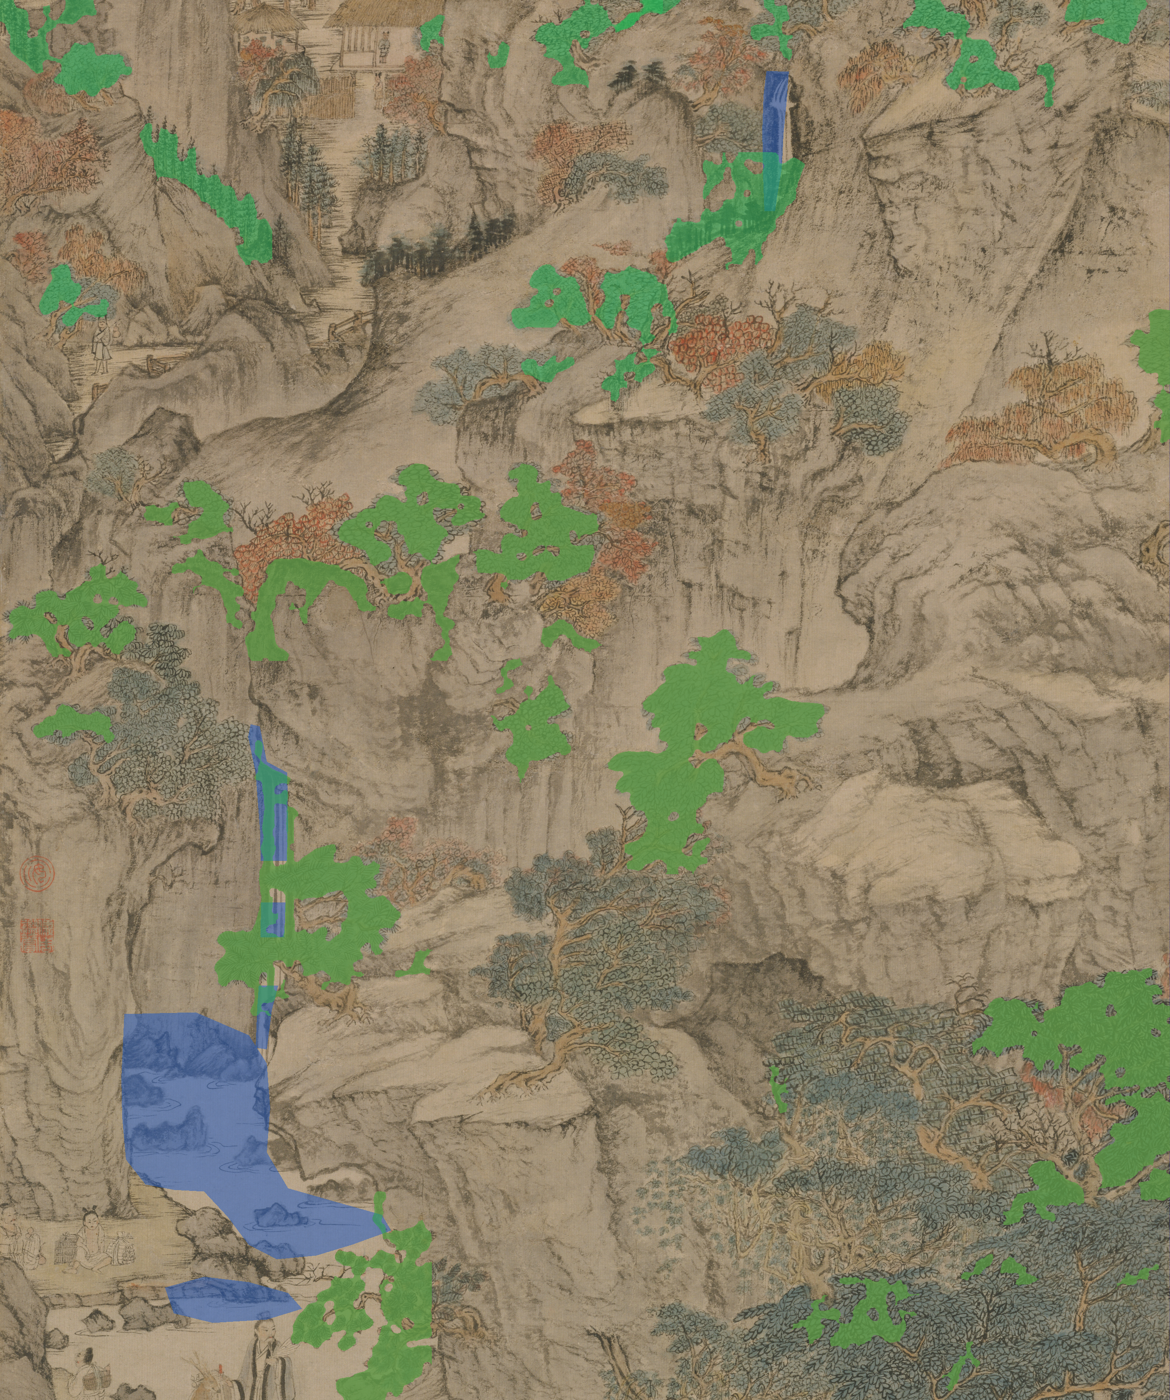
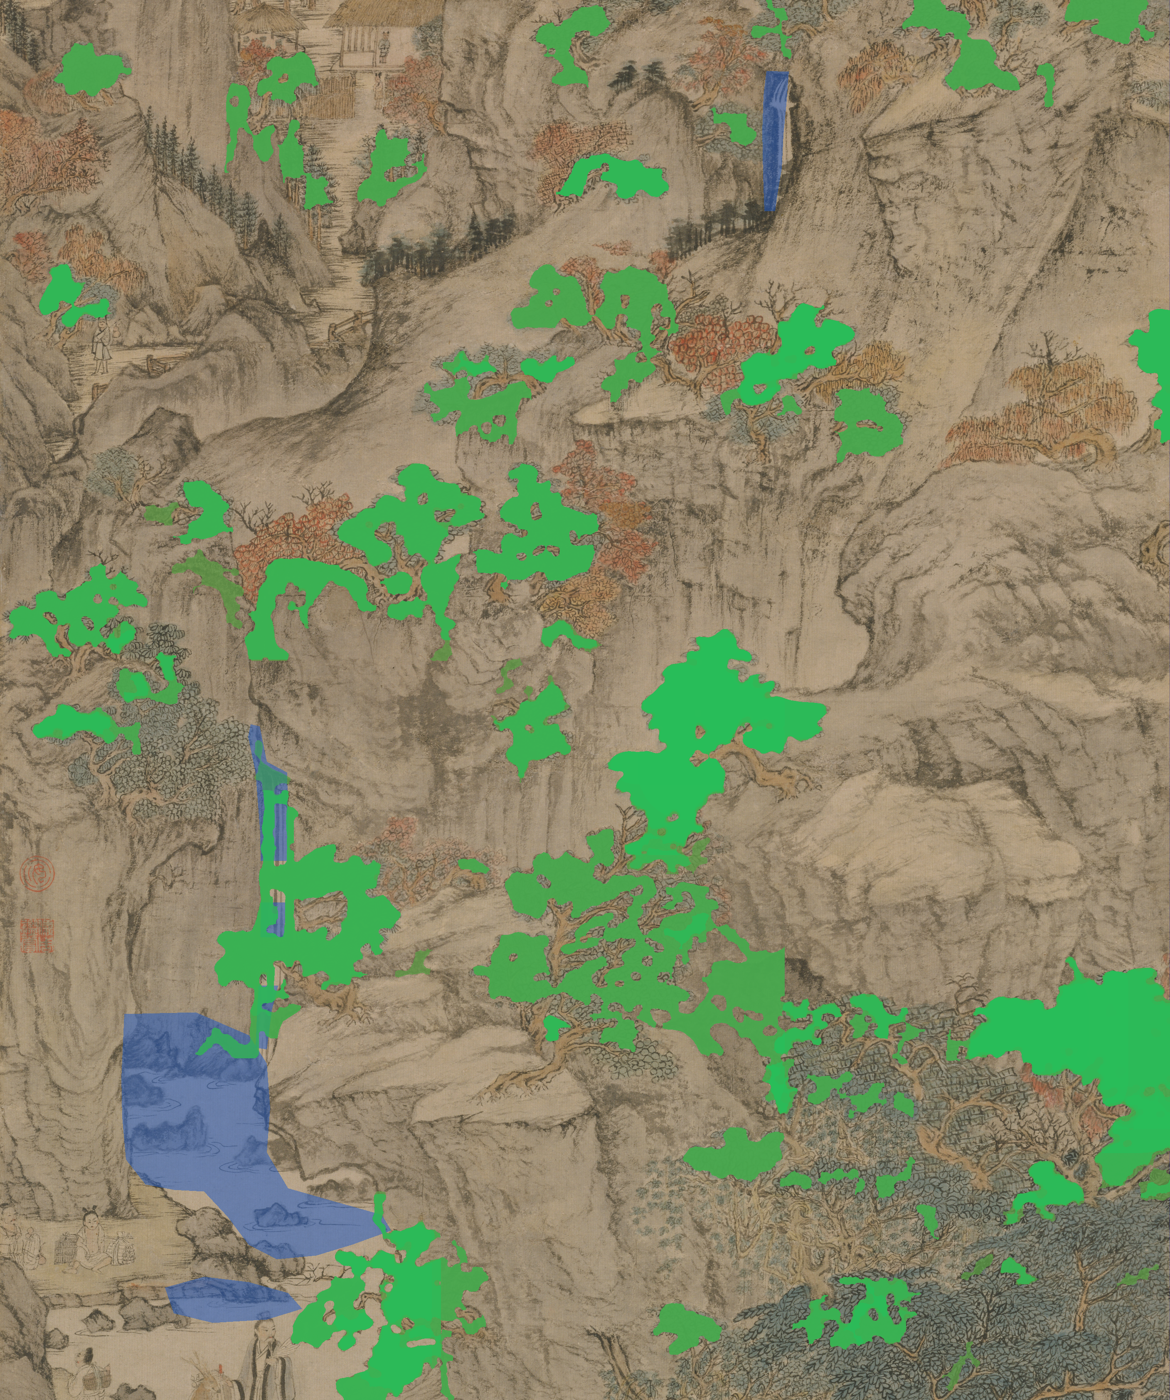
STATE and the z3w mask sheet, mid-rebuild after the duplicate polys came out

diff --git a/jobs/wang-meng/STATE.md b/jobs/wang-meng/STATE.md
@@ -3,7 +3,7 @@
 
 # media-tools — STATE
 
-*Generated 2026-08-24 12:26 from git, the knowledge store, and this project's own status script. Nothing here is typed by hand, so nothing here can be stale.*
+*Generated 2026-08-24 13:03 from git, the knowledge store, and this project's own status script. Nothing here is typed by hand, so nothing here can be stale.*
 
 ## What is open
 
@@ -64,7 +64,6 @@ VERDICTS — measured, and SCOPED; check the scope before reusing
   · a-transform-cannot-change-an-expression Character animation on a painted or drawn source. The MEASUREMENTS are from 葛稚川移居圖's Ge Ho
   · band-02-was-already-animated-once The Ge Hong / deer / trestle-bridge scene, master box roughly [901, 10604, 2585, 13599]. F
   · branch-radius-scales-with-the-tree hinge-foliage's branch/leaf split on 葛稚川移居圖, and by the same mechanism any painting where 
-  · canopy-read-distant    DISTANT ridges only -- the summits, master y < ~3850, verified on z6w. NOT valid near; the
   · canopy-read-near       NEAR foliage only -- the compound canopies and the gorge, master y > ~3850. NOT valid on d
   · clean-plate-donor-scope Any clean-plate fill whose hole is SURROUNDED BY MATERIAL OF THE SAME KIND as the thing be
   · depth-is-authored      Whole-painting depth on 葛稚川移居圖 and, by the same mechanism, any painting built on 散点透視 rath
@@ -82,6 +81,7 @@ VERDICTS — measured, and SCOPED; check the scope before reusing
   · the-resolve-substrate-is-already-built Facts read off this machine on 2026-08-22. Applies to any plan that proposes building agen
 
 REFUTED — already tried, do NOT retry
+  ✗ a-percentile-cannot-reject-a-region A percentile is defined relative to its own input, so it ALWAYS returns something -- give it a blank
   ✗ canopy-by-texture-statistics At distance Wang Meng's 牛毛皴 (hemp-fibre texture strokes) covers rock and forest alike, so the ridge 
   ✗ copied-real-ink-over-inks-worse-than-flux Patch synthesis chooses donors by TEXTURE MATCH, and a hole beside dense hatching matches dense hatc
   ✗ mist-as-ink            There is no mist ink in this painting. What reads as mist is 留白 -- bare ground, negative space, the 
@@ -143,23 +143,23 @@ RELIEF — within-plane surface shape, per zone (the 2026-08-19 verdict)
 *From git. The full narrative lives in `docs/journal/`; commit subjects are written as search bait, so `git log --grep` is the index.*
 
 ```
+2026-08-24  7ea283f  two guards that were written down and never enforced: the fence and the dedup
+2026-08-24  9210f58  the summit band is catalogued: 12 tiles, 225 objects, 123 leaf masses
+2026-08-24  abea32c  retire dark-accent: the polygon was the classifier, not the rule
+2026-08-24  3aabc70  what the catalogue thinks is foliage, over the whole scroll
+2026-08-24  9c02933  the foliage master was a union nobody could reproduce; now it is a script
+2026-08-24  4ed19e9  the mask index was a cache of a directory with no invalidation: 17 entries, 4 files
+2026-08-24  9a0bd7a  the cut-card manifests are the record; living-work's 69MB of pngs are the cutting floor
+2026-08-24  474094a  the z1 rebuild's outputs: catalogue SAM masks for the z3w band, and the reel they produced
+2026-08-24  afef054  STATE regenerated: z1 living layer 21 to 46 patches, foliage regions 8 to 122
 2026-08-24  080052c  the coverage denominator was the retired colour gate; the catalogue is the decider
 2026-08-24  f7e0d35  z1's living layer rebuilt from the catalogue: 46 patches, foliage 8 to 33
 2026-08-24  f9d42fb  the foliage masks were never actually committed -- a blanket jobs/** ignore ate them
-2026-08-24  3fc36ff  gitignore the derived stacks: 2.7GB of measure-work frames are reproducible
-2026-08-24  c0ed21b  the subtle reel, reframed: fov floors computed, focus-trees replaced
-2026-08-24  2c25f8b  STATE regenerated: colour gate retired, catalogue decides foliage
-2026-08-24  708db94  retire the colour gate: a catalogue decides what is foliage, not a threshold
-2026-08-24  321d230  the catalogue replaces the colour gate: rock leaf-ink 64% to 9.5%
-2026-08-24  557efc8  the bottom of the scroll is catalogued: 170 objects, 58 leaf masses
-2026-08-24  9ccf63f  the loop Ryan ruled on: the rock moves
-2026-08-24  24cb815  two vision models probed for foliage-vs-rock, then set aside for the catalogue
-2026-08-24  38e7fea  whole-plate foliage pass: coverage 6.9% to 56.6%, but the rock moves
 ```
 
 ### ⚠ UNPUSHED
 
-**3 commit(s) ahead of `origin/main`.** Committed is not the same as safe — a commit that has not left this machine has the durability of the disk it is on.
+**12 commit(s) ahead of `origin/main`.** Committed is not the same as safe — a commit that has not left this machine has the durability of the disk it is on.
 
 ```
 git push origin main
@@ -169,36 +169,82 @@ git push origin main
 
 ```
  M jobs/wang-meng/STATE.md
- M jobs/wang-meng/film/SHOT-focus-ge.mp4
- M jobs/wang-meng/film/SHOT-focus-slope.mp4
- M jobs/wang-meng/film/SUBTLE-REEL.mp4
- M jobs/wang-meng/journey/z1/living-masks/index.json
- M jobs/wang-meng/journey/z1/living-work/s-great-trees-lower/drawings/cycle.json
- M jobs/wang-meng/journey/z1/living-work/s-great-trees-upper/drawings/cycle.json
- M jobs/wang-meng/journey/z1/living-work/s-left-pines-z2/drawings/cycle.json
- M jobs/wang-meng/journey/z1/living-work/s-pine-over-bridge/drawings/cycle.json
- M jobs/wang-meng/journey/z1/living/built.json
-?? jobs/wang-meng/catalogue/sam/
-?? jobs/wang-meng/journey/z1/living-work/cat-broadleaf-great-right/
-?? jobs/wang-meng/journey/z1/living-work/cat-canopy-bottom-left/
-?? jobs/wang-meng/journey/z1/living-work/cat-canopy-bough-left-main/
-?? jobs/wang-meng/journey/z1/living-work/cat-canopy-bough-left-tip/
-?? jobs/wang-meng/journey/z1/living-work/cat-canopy-brick-top/
-?? jobs/wang-meng/journey/z1/living-work/cat-fronds-bottom-left/
-?? jobs/wang-meng/journey/z1/living-work/cat-pine-needle-right/
-?? jobs/wang-meng/journey/z1/living-work/cat-pine-top-roots/
-?? jobs/wang-meng/journey/z1/living-work/cat-tree-bottom-right-t013/
-?? jobs/wang-meng/journey/z1/living-work/cat-tree-bottom-right/
-?? jobs/wang-meng/journey/z1/living-work/cat-tree-colour-lower-left/
-?? jobs/wang-meng/journey/z1/living-work/cat-tree-great-centre/
-?? jobs/wang-meng/journey/z1/living-work/cat-tree-round-top-left/
-?? jobs/wang-meng/journey/z1/living-work/cat-tree-teal-mid-left/
-?? jobs/wang-meng/journey/z1/living-work/cat-vine-curtain-left/
-?? jobs/wang-meng/journey/z1/living-work/cat-vine-curtain-mid/
-?? jobs/wang-meng/journey/z1/living-work/s-great-trees-lower/exclude/
-?? jobs/wang-meng/journey/z1/living-work/s-great-trees-upper/exclude/
-?? jobs/wang-meng/journey/z1/living-work/s-left-pines-z2/exclude/
-?? jobs/wang-meng/journey/z1/living-work/s-pine-over-bridge/exclude/
+ M jobs/wang-meng/catalogue/sam-summit/t000-trees.png
+ M jobs/wang-meng/journey/z3w/living-masks/index.json
+ M jobs/wang-meng/journey/z3w/living-work/s-gorge-big-canopy/drawings/cycle.json
+ M jobs/wang-meng/journey/z3w/living-work/s-gorge-foreground/drawings/cycle.json
+ M jobs/wang-meng/journey/z3w/living-work/s-great-trees-upper/drawings/cycle.json
+ M jobs/wang-meng/journey/z3w/living-work/s-left-clifftop-pine/drawings/cycle.json
+ M jobs/wang-meng/journey/z3w/living-work/s-left-pines-z2/drawings/cycle.json
+ M jobs/wang-meng/journey/z3w/living-work/s-pine-over-bridge/drawings/cycle.json
+ M jobs/wang-meng/journey/z3w/living-work/s-right-rust-tree/drawings/cycle.json
+ M jobs/wang-meng/journey/z3w/living/built.json
+ M jobs/wang-meng/living/evidence-masks-z3w.png
+?? jobs/wang-meng/catalogue/foliage-master-summit.png
+?? jobs/wang-meng/catalogue/sam-summit/t001-trees.png
+?? jobs/wang-meng/catalogue/sam-summit/t002-trees.png
+?? jobs/wang-meng/journey/z3w/living-work/cat-broadleaf-great-right/
+?? jobs/wang-meng/journey/z3w/living-work/cat-broadleaf-top-left/
+?? jobs/wang-meng/journey/z3w/living-work/cat-broadleaf-top-right/
+?? jobs/wang-meng/journey/z3w/living-work/cat-canopy-brick-top/
+?? jobs/wang-meng/journey/z3w/living-work/cat-canopy-dense-bottom-right/
+?? jobs/wang-meng/journey/z3w/living-work/cat-canopy-dense-bottom/
+?? jobs/wang-meng/journey/z3w/living-work/cat-canopy-foreground-left/
+?? jobs/wang-meng/journey/z3w/living-work/cat-canopy-foreground/
+?? jobs/wang-meng/journey/z3w/living-work/cat-canopy-top-band/
+?? jobs/wang-meng/journey/z3w/living-work/cat-canopy-top-centre-left/
+?? jobs/wang-meng/journey/z3w/living-work/cat-canopy-top-right/
+?? jobs/wang-meng/journey/z3w/living-work/cat-conifers-right/
+?? jobs/wang-meng/journey/z3w/living-work/cat-fronds-bottom-left/
+?? jobs/wang-meng/journey/z3w/living-work/cat-great-tree-top-left/
+?? jobs/wang-meng/journey/z3w/living-work/cat-grove-bottom-right/
+?? jobs/wang-meng/journey/z3w/living-work/cat-grove-left-upper/
+?? jobs/wang-meng/journey/z3w/living-work/cat-grove-lower-left/
+?? jobs/wang-meng/journey/z3w/living-work/cat-maple-ochre/
+?? jobs/wang-meng/journey/z3w/living-work/cat-maple-orange/
+?? jobs/wang-meng/journey/z3w/living-work/cat-maple-rust-left/
+?? jobs/wang-meng/journey/z3w/living-work/cat-pine-bottom-right/
+?? jobs/wang-meng/journey/z3w/living-work/cat-pine-centre/
+?? jobs/wang-meng/journey/z3w/living-work/cat-pine-dark-right-t015/
+?? jobs/wang-meng/journey/z3w/living-work/cat-pine-dark-right/
+?? jobs/wang-meng/journey/z3w/living-work/cat-pine-dark-top-right/
+?? jobs/wang-meng/journey/z3w/living-work/cat-pine-left-spread/
+?? jobs/wang-meng/journey/z3w/living-work/cat-pine-needle-bottom-right/
+?? jobs/wang-meng/journey/z3w/living-work/cat-pine-needle-left/
+?? jobs/wang-meng/journey/z3w/living-work/cat-pine-needle-right/
+?? jobs/wang-meng/journey/z3w/living-work/cat-pine-top-centre/
+?? jobs/wang-meng/journey/z3w/living-work/cat-pine-top-left/
+?? jobs/wang-meng/journey/z3w/living-work/cat-pine-top-roots/
+?? jobs/wang-meng/journey/z3w/living-work/cat-thicket-bottom/
+?? jobs/wang-meng/journey/z3w/living-work/cat-tree-bottom-centre-t002/
+?? jobs/wang-meng/journey/z3w/living-work/cat-tree-bottom-centre-t005/
+?? jobs/wang-meng/journey/z3w/living-work/cat-tree-bottom-centre/
+?? jobs/wang-meng/journey/z3w/living-work/cat-tree-bottom-right-t003/
+?? jobs/wang-meng/journey/z3w/living-work/cat-tree-bottom-right-t005/
+?? jobs/wang-meng/journey/z3w/living-work/cat-tree-bottom-right-t013/
+?? jobs/wang-meng/journey/z3w/living-work/cat-tree-bottom-right/
+?? jobs/wang-meng/journey/z3w/living-work/cat-tree-brick-centre/
+?? jobs/wang-meng/journey/z3w/living-work/cat-tree-colour-lower-left/
+?? jobs/wang-meng/journey/z3w/living-work/cat-tree-great-centre/
+?? jobs/wang-meng/journey/z3w/living-work/cat-tree-left-edge/
+?? jobs/wang-meng/journey/z3w/living-work/cat-tree-lower-round/
+?? jobs/wang-meng/journey/z3w/living-work/cat-tree-mid-round/
+?? jobs/wang-meng/journey/z3w/living-work/cat-tree-right-edge/
+?? jobs/wang-meng/journey/z3w/living-work/cat-tree-round-top-left/
+?? jobs/wang-meng/journey/z3w/living-work/cat-tree-teal-above-ge-hong/
+?? jobs/wang-meng/journey/z3w/living-work/cat-tree-teal-bottom-left/
+?? jobs/wang-meng/journey/z3w/living-work/cat-tree-teal-centre-right/
+?? jobs/wang-meng/journey/z3w/living-work/cat-tree-teal-left/
+?? jobs/wang-meng/journey/z3w/living-work/cat-tree-teal-mid-left/
+?? jobs/wang-meng/journey/z3w/living-work/cat-tree-teal-upper-left/
+?? jobs/wang-meng/journey/z3w/living-work/cat-tree-top-left/
+?? jobs/wang-meng/journey/z3w/living-work/cat-tree-weeping-upper-right/
+?? jobs/wang-meng/journey/z3w/living-work/cat-willow-top-left/
+?? jobs/wang-meng/journey/z3w/living-work/s-gorge-big-canopy/exclude/
+?? jobs/wang-meng/journey/z3w/living-work/s-great-trees-upper/exclude/
+?? jobs/wang-meng/journey/z3w/living-work/s-left-pines-z2/exclude/
+?? jobs/wang-meng/journey/z3w/living-work/s-pine-over-bridge/exclude/
+?? jobs/wang-meng/journey/z3w/living-work/s-right-rust-tree/exclude/
 ```
 
 *Uncommitted is not learned. Commit at the moment of learning.*
